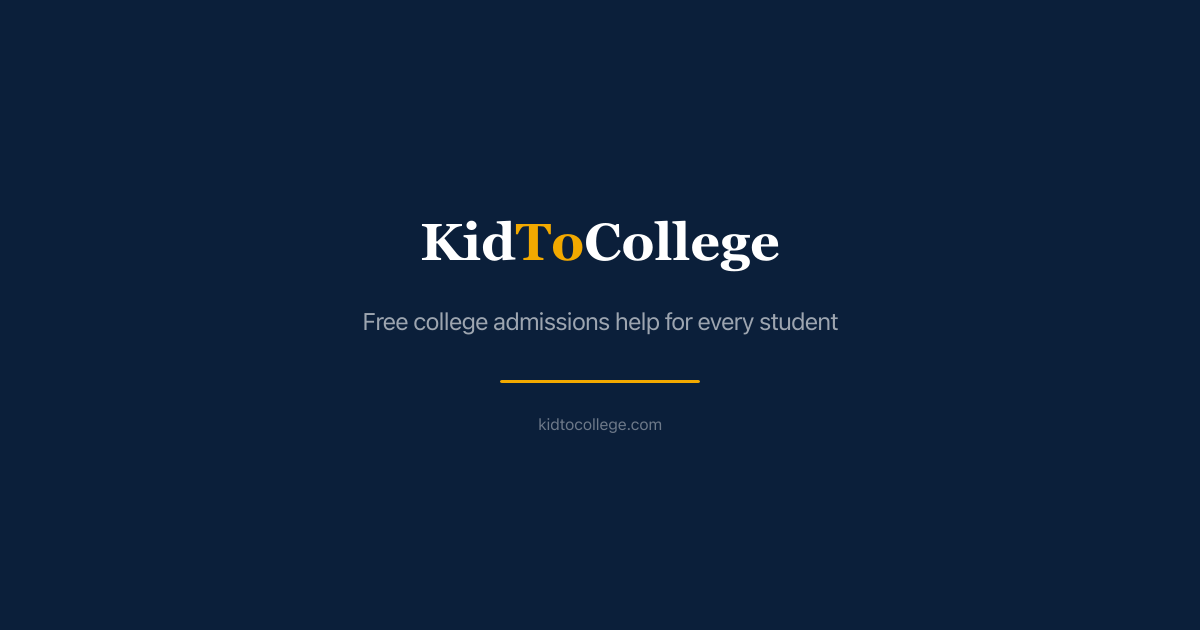
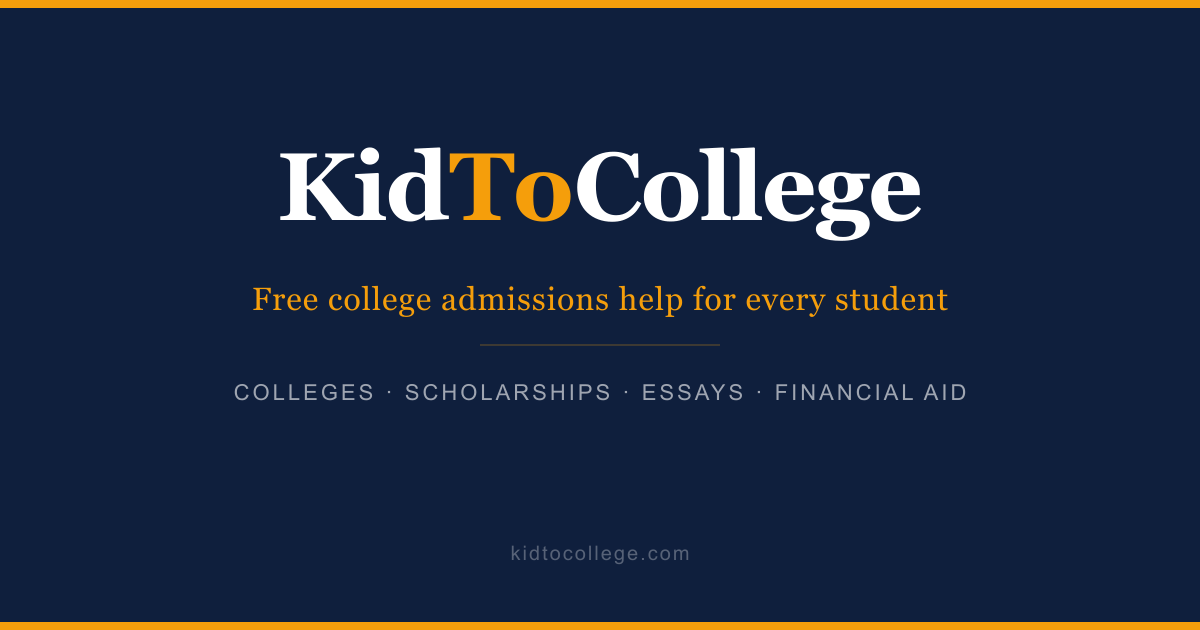
feat: college search field on My Chances, fix loading copy to 2942

diff --git a/src/app/my-chances/MyChancesClient.tsx b/src/app/my-chances/MyChancesClient.tsx
@@ -1,6 +1,6 @@
 "use client"
 
-import { useState } from "react"
+import { useState, useRef, useEffect } from "react"
 import { createClient } from "@/lib/supabase-browser"
 
 const MAJORS = ["Undecided","Computer Science","Engineering","Business","Biology / Pre-Med","Psychology","Economics","Political Science","Communications","Nursing","Education","Art & Design","Film & Media","Environmental Science","Mathematics","Philosophy","Sociology","History","English / Literature","Criminal Justice"]
@@ -24,6 +24,37 @@ export default function MyChancesClient() {
   const [savedColleges, setSavedColleges] = useState<string[]>([])
   const [hasFetched, setHasFetched] = useState(false)
 
+  // College search
+  const [collegeQuery, setCollegeQuery] = useState("")
+  const [selectedCollege, setSelectedCollege] = useState<{ name: string; slug: string } | null>(null)
+  const [collegeResults, setCollegeResults] = useState<{ name: string; slug: string }[]>([])
+  const [showCollegeDropdown, setShowCollegeDropdown] = useState(false)
+  const collegeDropdownRef = useRef<HTMLDivElement>(null)
+
+  useEffect(() => {
+    function handleClick(e: MouseEvent) {
+      if (collegeDropdownRef.current && !collegeDropdownRef.current.contains(e.target as Node)) {
+        setShowCollegeDropdown(false)
+      }
+    }
+    document.addEventListener("mousedown", handleClick)
+    return () => document.removeEventListener("mousedown", handleClick)
+  }, [])
+
+  const searchColleges = async (query: string) => {
+    setCollegeQuery(query)
+    setSelectedCollege(null)
+    if (query.length < 3) { setCollegeResults([]); setShowCollegeDropdown(false); return }
+    const supabase = createClient()
+    const { data } = await supabase
+      .from("colleges")
+      .select("name, slug")
+      .ilike("name", `%${query}%`)
+      .limit(8)
+    setCollegeResults((data as { name: string; slug: string }[]) || [])
+    setShowCollegeDropdown(true)
+  }
+
   const fetchSavedColleges = async () => {
     const supabase = createClient()
     const { data: { user } } = await supabase.auth.getUser()
@@ -42,7 +73,7 @@ export default function MyChancesClient() {
     const colleges = hasFetched ? savedColleges : await fetchSavedColleges()
     if (!hasFetched) { setSavedColleges(colleges); setHasFetched(true) }
     try {
-      const res = await fetch("/api/my-chances", { method: "POST", headers: { "Content-Type": "application/json" }, body: JSON.stringify({ ...form, savedColleges: colleges }) })
+      const res = await fetch("/api/my-chances", { method: "POST", headers: { "Content-Type": "application/json" }, body: JSON.stringify({ ...form, savedColleges: colleges, specificCollege: selectedCollege }) })
       const data = await res.json()
       if (!res.ok) throw new Error(data.error || "Something went wrong")
       setResults(data.results)
@@ -94,6 +125,45 @@ export default function MyChancesClient() {
                 <option value="">Select major…</option>
                 {MAJORS.map((m) => <option key={m} value={m}>{m}</option>)}
               </select>
+            </div>
+            {/* College search */}
+            <div className="sm:col-span-2">
+              <label className="block text-sm font-semibold text-gray-700 mb-1.5">Specific college <span className="text-gray-400 font-normal">(optional)</span></label>
+              <div className="relative" ref={collegeDropdownRef}>
+                <input
+                  type="text"
+                  value={selectedCollege ? selectedCollege.name : collegeQuery}
+                  onChange={(e) => searchColleges(e.target.value)}
+                  onFocus={() => { if (collegeResults.length > 0) setShowCollegeDropdown(true) }}
+                  placeholder="e.g. University of Texas at Austin"
+                  className="w-full border border-gray-300 rounded-lg px-4 py-2.5 text-gray-900 focus:outline-none focus:ring-2 focus:ring-blue-500"
+                />
+                {selectedCollege && (
+                  <button
+                    onClick={() => { setSelectedCollege(null); setCollegeQuery(""); setCollegeResults([]) }}
+                    className="absolute right-3 top-1/2 -translate-y-1/2 text-gray-400 hover:text-gray-600"
+                  >
+                    &times;
+                  </button>
+                )}
+                {showCollegeDropdown && collegeResults.length > 0 && (
+                  <div className="absolute z-10 top-full left-0 right-0 mt-1 bg-white border border-gray-200 rounded-lg shadow-lg max-h-60 overflow-y-auto">
+                    {collegeResults.map((c) => (
+                      <button
+                        key={c.slug}
+                        onClick={() => {
+                          setSelectedCollege(c)
+                          setCollegeQuery(c.name)
+                          setShowCollegeDropdown(false)
+                        }}
+                        className="w-full text-left px-4 py-2.5 text-sm text-gray-900 hover:bg-gray-50 transition-colors"
+                      >
+                        {c.name}
+                      </button>
+                    ))}
+                  </div>
+                )}
+              </div>
             </div>
           </div>
 

diff --git a/src/app/api/my-chances/route.ts b/src/app/api/my-chances/route.ts
@@ -4,12 +4,24 @@ import Anthropic from "@anthropic-ai/sdk"
 export const maxDuration = 60
 
 export async function POST(req: NextRequest) {
-  const { gpa, sat, act, state, major, savedColleges } = await req.json()
+  const { gpa, sat, act, state, major, savedColleges, specificCollege } = await req.json()
   if (!gpa || !state || !major) return NextResponse.json({ error: "Missing required fields" }, { status: 400 })
 
   const client = new Anthropic()
 
-  const collegeList: string[] = savedColleges?.length > 0 ? savedColleges.slice(0, 8) : ["University of Texas at Austin","Texas A&M University","University of California Los Angeles","University of Michigan","New York University","University of Florida"]
+  // If a specific college is provided, evaluate that first + similar colleges
+  // Otherwise use saved colleges or defaults
+  let collegeList: string[]
+  let specificCollegeNote = ""
+
+  if (specificCollege?.name) {
+    collegeList = [specificCollege.name]
+    specificCollegeNote = `\n\nThe student is specifically interested in ${specificCollege.name}. Evaluate this college first with extra detail — include its actual acceptance rate, cost of attendance, and any scholarships for ${major} students. Then suggest 3-5 similar colleges the student should also consider based on their profile.`
+  } else if (savedColleges?.length > 0) {
+    collegeList = savedColleges.slice(0, 8)
+  } else {
+    collegeList = ["University of Texas at Austin","Texas A&M University","University of California Los Angeles","University of Michigan","New York University","University of Florida"]
+  }
 
   const message = await client.messages.create({
     model: "claude-sonnet-4-5",
@@ -26,7 +38,7 @@ Student profile:
 - Intended major: ${major}
 
 Colleges to evaluate:
-${collegeList.map((c: string, i: number) => `${i + 1}. ${c}`).join("\n")}
+${collegeList.map((c: string, i: number) => `${i + 1}. ${c}`).join("\n")}${specificCollegeNote}
 
 For each college return:
 - college: college name

diff --git a/src/components/Navbar.tsx b/src/components/Navbar.tsx
@@ -2,7 +2,9 @@
 
 import Link from "next/link";
 import { useEffect, useState } from "react";
+import { usePathname, useRouter } from "next/navigation";
 import { motion, AnimatePresence } from "framer-motion";
+import { ChevronLeft } from "lucide-react";
 import { createClient } from "@/lib/supabase-browser";
 
 interface NavLink {
@@ -39,6 +41,10 @@ const NAV_LINKS: NavLink[] = [
 ];
 
 export function Navbar() {
+  const router = useRouter();
+  const pathname = usePathname();
+  const isHome = pathname === "/";
+
   const [scrolled, setScrolled] = useState(false);
   const [mobileOpen, setMobileOpen] = useState(false);
   const [isSignedIn, setIsSignedIn] = useState(false);
@@ -85,8 +91,23 @@ export function Navbar() {
     >
       <div className="max-w-7xl mx-auto px-4 sm:px-6 lg:px-8">
         <div className="flex items-center justify-between h-16">
+          {/* Mobile left — back button or spacer */}
+          <div className="md:hidden w-9 flex-shrink-0">
+            {!isHome ? (
+              <button
+                onClick={() => router.back()}
+                className="flex items-center justify-center w-9 h-9 rounded-full hover:bg-gray-100 transition-colors"
+                aria-label="Go back"
+              >
+                <ChevronLeft className="w-5 h-5 text-gray-600" />
+              </button>
+            ) : (
+              <div className="w-9" />
+            )}
+          </div>
+
           {/* Logo */}
-          <Link href="/" className="flex items-center gap-2 group">
+          <Link href="/" className="flex items-center gap-2 group md:mr-auto">
             <span className="text-navy font-display text-xl font-bold tracking-display">
               Kid<span className="text-gold">To</span>College
             </span>

diff --git a/src/app/results/ResultsLoader.tsx b/src/app/results/ResultsLoader.tsx
@@ -111,7 +111,7 @@ export function ResultsLoader({ resultId: initialResultId, searchId }: Props) {
 }
 
 const LOADING_FACTS = [
-  "Searching 125+ colleges for scholarships matched to your profile...",
+  "Searching 2,942 colleges for scholarships matched to your profile...",
   "Did you know? The average private college now costs over $100,000 for four years — we're finding ways to cut that for you.",
   "Checking merit aid thresholds, need-met percentages, and hidden departmental awards...",
   "The first FAFSA was filed in 1992. A lot has changed — we're on top of it.",

diff --git a/src/app/layout.tsx b/src/app/layout.tsx
@@ -28,7 +28,11 @@ export const metadata: Metadata = {
       "Get the same college admissions advantage as kids with $15,000 counselors — for free. Find colleges, scholarships, and your personalized roadmap to acceptance.",
     siteName: "KidToCollege",
     type: "website",
-    images: [{ url: "/og-image.png", width: 1200, height: 630 }],
+    images: [{ url: "/og-image.png", width: 1200, height: 630, alt: "KidToCollege — Free college admissions help for every student" }],
+  },
+  twitter: {
+    card: "summary_large_image",
+    images: ["/og-image.png"],
   },
 };
 

diff --git a/src/app/api/cron/enrich-photos/route.ts b/src/app/api/cron/enrich-photos/route.ts
@@ -81,5 +81,7 @@ export async function GET(req: NextRequest) {
 
   const remaining = (count || 0) - processed;
 
+  console.log(`[enrich-photos] Processed: ${processed}, Remaining: ${remaining}, Time: ${new Date().toISOString()}`);
+
   return NextResponse.json({ processed, remaining });
 }
